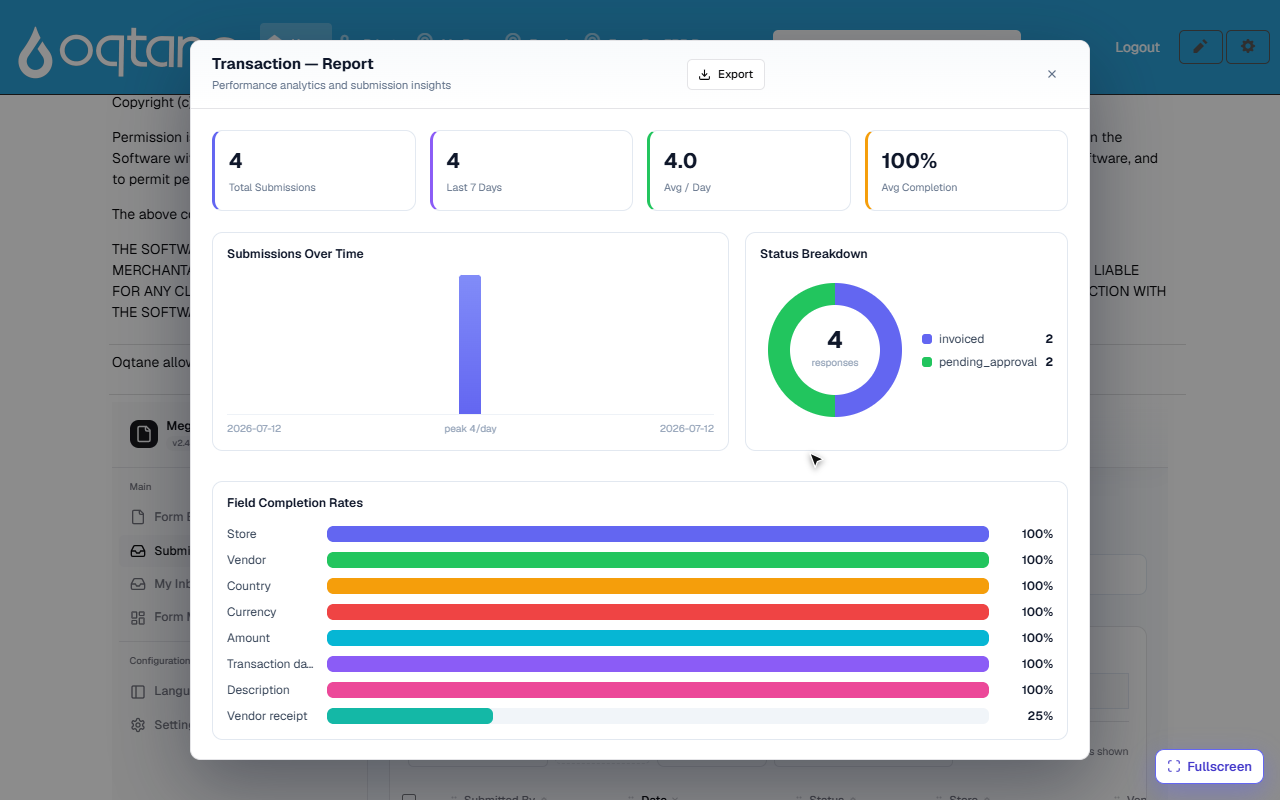
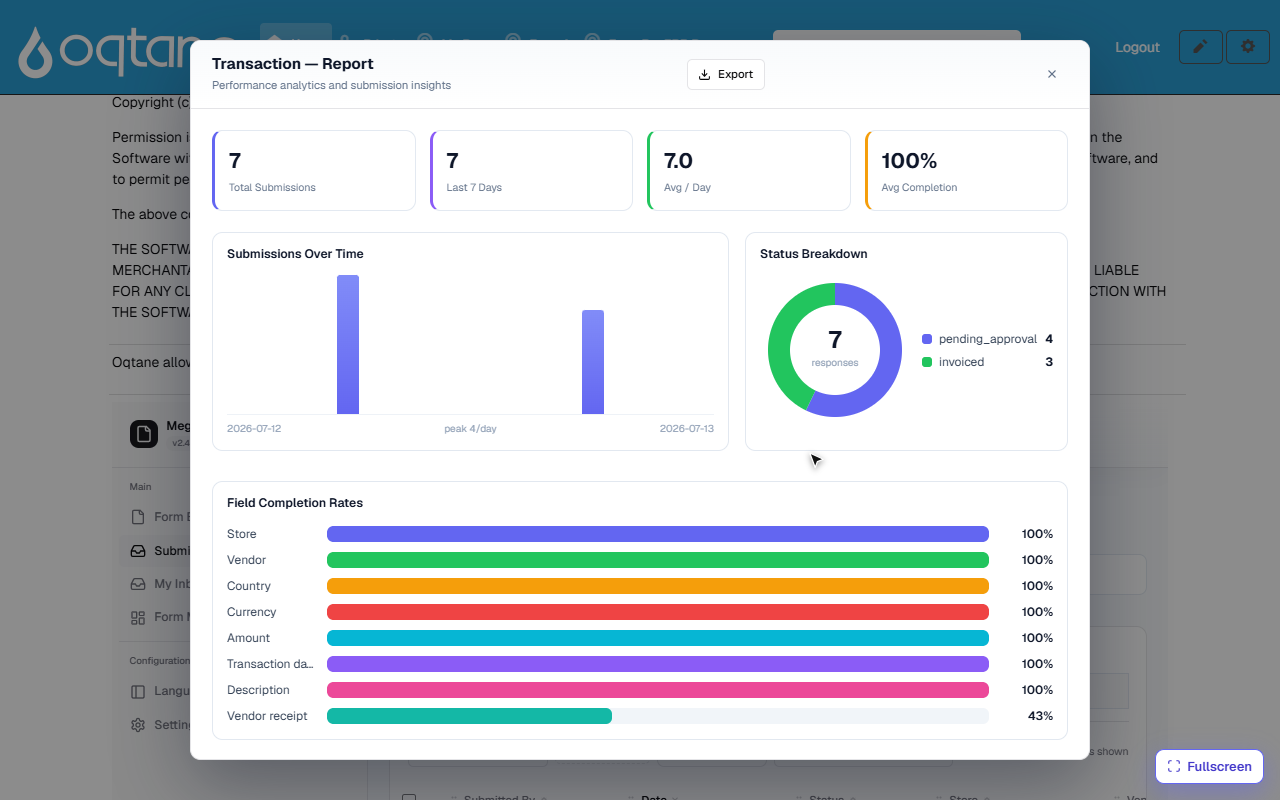
docs(erp-demo): fictional demo locale + receipt upload shown live in the recording
- Demo data now uses the fictional country Zephyria (ZR), city Port Meridian and
  currency Zephyrian Crown (ZRC) instead of a real country.
- Re-recorded the walkthrough GIF: the transaction now attaches a vendor receipt
  in the dropzone (real upload) and the grid/detail show paperclip download links.
- Report screenshot refreshed; receipt-completion wording made count-agnostic.

diff --git a/Docs/docfx/articles/erp-end-to-end.md b/Docs/docfx/articles/erp-end-to-end.md
@@ -36,9 +36,10 @@ dropdowns**. A dropdown becomes SQL-driven through its field properties:
 ```
 
 The first selected column is the stored value, the second is the label (the Currency dropdown
-uses ``CurrencyName + ' (' + Symbol + ')'`` for labels like *Vietnamese Dong (₫)*). Options are
-fetched live per render — add a row to `dbo.Country` and it appears on the next load. Queries are
-SELECT-only, run server-side on the named connection, and support `:field` tokens for
+uses ``CurrencyName + ' (' + Symbol + ')'`` for labels like *Zephyrian Crown (Ƶ)* — the demo data
+uses the fictional country of Zephyria and its currency). Options are fetched live per render —
+add a row to `dbo.Country` and it appears on the next load. Queries are SELECT-only, run
+server-side on the named connection, and support `:field` tokens for
 [cascading dropdowns](form-builder.md).
 
 The Store form also **writes back to the ERP database**: a per-form database insert
@@ -75,9 +76,12 @@ database live:
 | **Currency** | `dbo.Currency` master table |
 
 plus `amount` (Number), `transaction_date` (Date), `description`, and a **Vendor receipt** File
-field (PDF/JPG/PNG, 10 MB limit). Receipts are held in private storage — never under the public
-web root — recorded against their transaction, and streamed back through an authenticated
-download URL (see [File download](file-download.md)).
+field (PDF/JPG/PNG, 10 MB limit). In the recording the receipt is attached right on the form —
+the dropzone uploads it as soon as it is picked (⏳ → ✓) — and after submit the file shows up as
+a **paperclip download link** on the transaction's row in the submissions grid and in the detail
+panel's *Attachments* section. Receipts are held in private storage — never under the public web
+root — recorded against their transaction, and streamed back through an authenticated download
+URL (see [File download](file-download.md)).
 
 > One dropdown gotcha worth knowing: give the label column an **alias** when it is derived
 > (`VendorName + ' (' + CountryCode + ')' AS VendorLabel`) — a result set that repeats the same
@@ -117,8 +121,9 @@ Each form also has a one-click **Reports** view:
 
 - **Status Breakdown** is the *transaction summary with invoice status*: the donut splits
   `invoiced` vs `pending_approval` straight from the workflow's outcome statuses.
-- **Field Completion Rates** shows data quality per field (the demo's *Vendor receipt* sits at
-  25% — exactly one of four transactions carries a receipt).
+- **Field Completion Rates** shows data quality per field — only the transactions that actually
+  carried a receipt count toward the *Vendor receipt* bar, so it doubles as a "receipts missing"
+  indicator.
 - **Country-wise and currency-wise views** come from the grid itself: add a filter chip
   (*Country is VN*, *Currency is USD*), save it as a preset, and **Export** the slice — see
   [Submissions Grid](submissions-grid.md).
@@ -130,7 +135,7 @@ Each form also has a one-click **Reports** view:
 | Master data without UI | Plain SQL tables (`Country`, `Currency`) read live by dropdowns |
 | Store / Vendor entry | Forms with SQL-driven reference dropdowns, mirrored into ERP tables |
 | Transaction with references | Store, Vendor, Country, Currency dropdowns all resolved from the ERP database |
-| Receipt upload | File field with type/size validation; receipts stored privately per transaction |
+| Receipt upload | File field with type/size validation; receipts stored privately, downloadable from the grid and the detail panel |
 | Invoice generation | Approval workflow stamps `invoiced` automatically on completion |
 | Dashboard & reports | All-forms dashboard + per-form report with invoice-status breakdown + filterable, exportable grid |
 